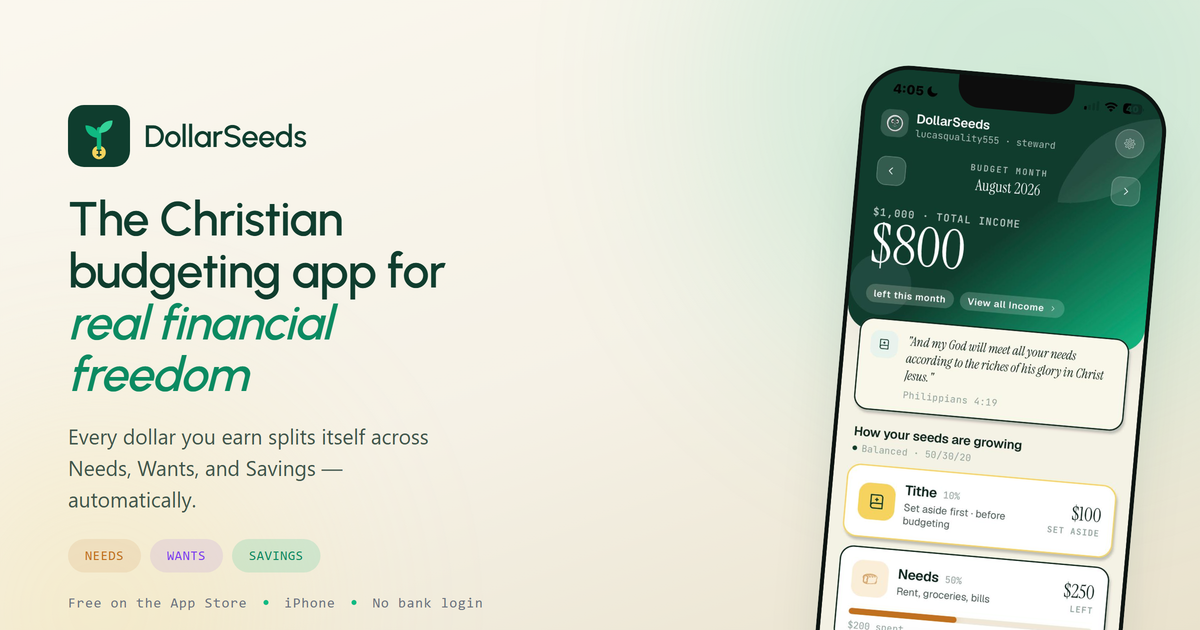
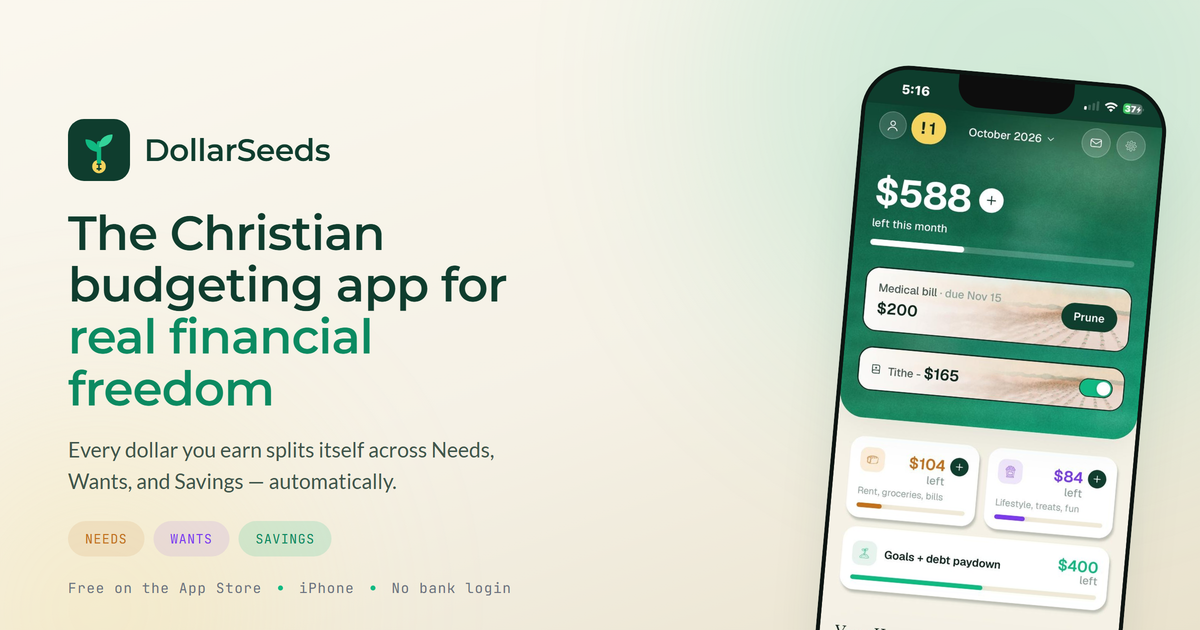
Regenerate the Open Graph card with Montserrat/Lato and the new home screen
gen-og-image.js now passes --virtual-time-budget so headless Chrome waits
for the webfonts before capturing; without it the card came out in the
Arial-based fallback faces.

diff --git a/tools/gen-og-image.js b/tools/gen-og-image.js
@@ -55,6 +55,9 @@ function screenshot(chrome, url, out) {
       '--hide-scrollbars',
       '--force-device-scale-factor=2',   // render at 2x, downsample for crisp type
       '--window-size=' + WIDTH + ',' + HEIGHT,
+      // Without this, --screenshot fires before the webfonts swap in and the
+      // card is captured in the Arial-based fallback faces.
+      '--virtual-time-budget=5000',
       '--screenshot=' + out,
       url
     ], { stdio: ['ignore', 'ignore', 'pipe'] });
